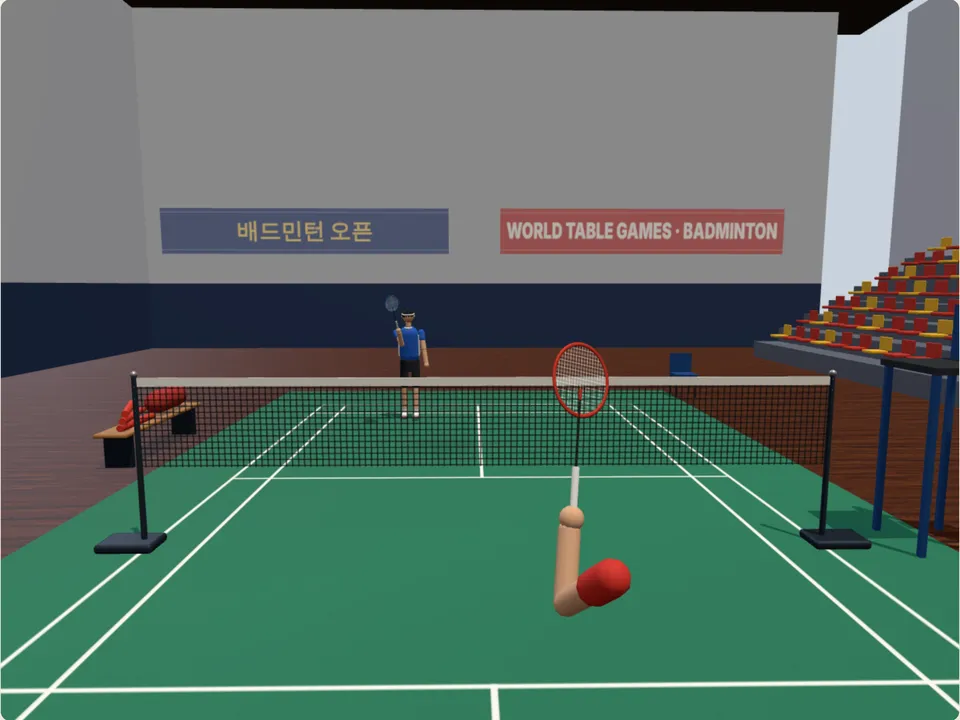
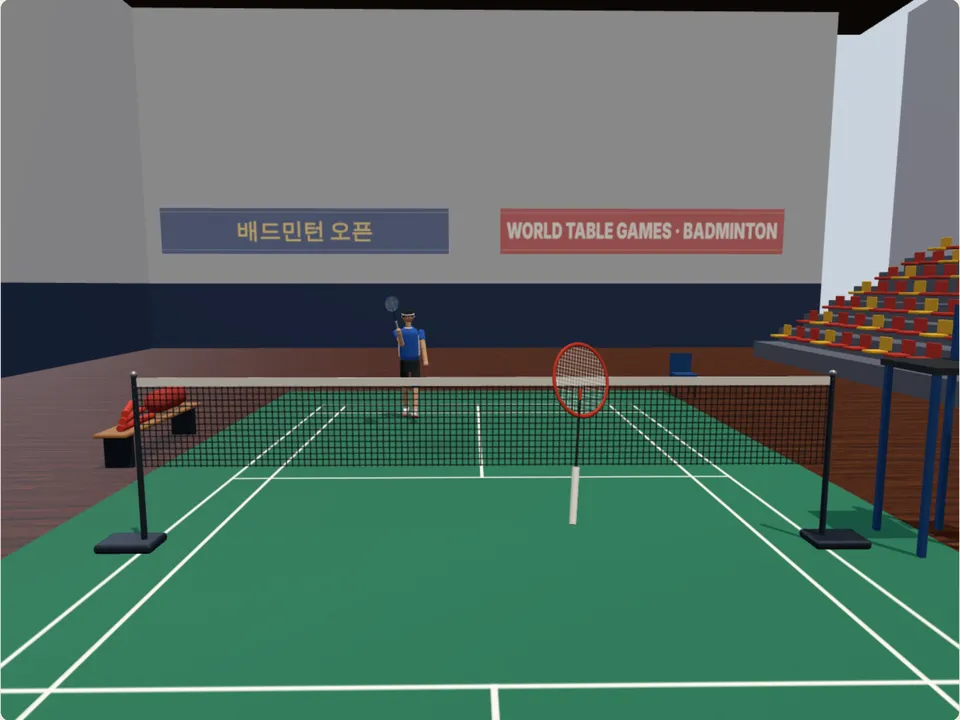
Badminton: only the racket is drawn of my player, and a small broadcast-style scoreboard in the corner
Claude-Session: https://claude.ai/code/session_01Uedx1uYtd54DPXXtQh77nN

Changed region(s): [[0.5625, 0.7028, 0.6562, 0.8556], [0.4062, 0.55, 0.4375, 0.5806]]

diff --git a/src/style.css b/src/style.css
@@ -2968,44 +2968,44 @@ dialog.setup-dialog.entry .entry-rules:hover, dialog.setup-dialog.entry .entry-r
    being played over the middle, each side's points in it (mine red, the computer's blue) with a ball by the server's,
    and beside it every game's score in its column with the games won at the end. No status line over the table. */
 :is(html[data-game="table-tennis"], html[data-game="badminton"]) .game-layout .board-area > .board-hint { display:none !important; }
-:is(html[data-game="table-tennis"], html[data-game="badminton"]) .game-layout.hud .table-layout > aside.game-sidebar { left:50% !important;right:auto !important;top:12px !important;bottom:auto !important;translate:-50% 0;max-width:none !important;gap:0;text-shadow:none; }
-:is(html[data-game="table-tennis"], html[data-game="badminton"]) .game-layout.hud.panel-scoreboard aside.game-sidebar .yut-sides { display:flex !important;flex-direction:row !important;justify-content:center;align-items:flex-start;gap:0 40px !important;padding:22px 26px 10px !important;border-radius:12px;background:linear-gradient(#171a21, #07080b) !important;border:3px solid #333944 !important;box-shadow:0 8px 22px #000a, inset 0 0 18px #000d !important;position:relative; }
-:is(html[data-game="table-tennis"], html[data-game="badminton"]) .game-layout.hud.panel-scoreboard aside.game-sidebar .yut-sides::after { display:block;content:":";position:absolute;left:50%;top:52px;translate:-50% 0;color:#ffd45a;font:800 40px/1 var(--mono, ui-monospace, monospace);text-shadow:0 0 10px #ffb21a; }
-:is(html[data-game="table-tennis"], html[data-game="badminton"]) .game-layout.hud.panel-scoreboard aside.game-sidebar .yut-sides li { display:flex !important;flex-direction:column;align-items:center;gap:4px !important;width:auto;position:static;flex:0 0 150px;min-width:0; }
-:is(html[data-game="table-tennis"], html[data-game="badminton"]) .game-layout.hud.panel-scoreboard aside.game-sidebar .yut-sides li .yut-dot { display:none; }
-:is(html[data-game="table-tennis"], html[data-game="badminton"]) .game-layout.hud.panel-scoreboard aside.game-sidebar .yut-sides li b { color:#ffd45a;font-size:12px;font-weight:700;letter-spacing:.06em;white-space:nowrap; }
-:is(html[data-game="table-tennis"], html[data-game="badminton"]) .game-layout.hud.panel-scoreboard aside.game-sidebar .yut-sides li > span[id^="pg-count-"] { display:flex;flex-direction:row;align-items:center;gap:8px;font:inherit !important;text-shadow:none !important;color:inherit !important; }
-:is(html[data-game="table-tennis"], html[data-game="badminton"]) .game-layout.hud.panel-scoreboard aside.game-sidebar .tt-points { font:800 54px/1 var(--mono, ui-monospace, monospace);min-width:1.2em;text-align:center; }
-:is(html[data-game="table-tennis"], html[data-game="badminton"]) .game-layout.hud.panel-scoreboard aside.game-sidebar #pg-side-0 .tt-points { color:#ff4a3a !important;text-shadow:0 0 14px #ff2a1a, 0 0 2px #fff6; }
-:is(html[data-game="table-tennis"], html[data-game="badminton"]) .game-layout.hud.panel-scoreboard aside.game-sidebar #pg-side-1 .tt-points { color:#4aa8ff !important;text-shadow:0 0 14px #1a7aff, 0 0 2px #fff6; }
-:is(html[data-game="table-tennis"], html[data-game="badminton"]) .game-layout.hud.panel-scoreboard aside.game-sidebar #pg-side-0 .tt-serve { order:-1; }
-:is(html[data-game="table-tennis"], html[data-game="badminton"]) .game-layout.hud.panel-scoreboard aside.game-sidebar .tt-serve { display:block;width:12px;height:12px;border-radius:50%;background:#2a2e36;box-shadow:inset 0 0 3px #000; }
-:is(html[data-game="table-tennis"], html[data-game="badminton"]) .game-layout.hud.panel-scoreboard aside.game-sidebar .tt-serve.on { background:radial-gradient(circle at 35% 35%, #ffd7a0, #ff8a1c 60%, #c45a00);box-shadow:0 0 10px #ff9a2a; }
-:is(html[data-game="table-tennis"], html[data-game="badminton"]) .game-layout.hud.panel-scoreboard aside.game-sidebar .tt-table { position:absolute;left:calc(100% + 10px);top:-3px;bottom:-3px;width:max-content;display:grid !important;align-content:center;gap:3px;padding:6px 14px !important;background:linear-gradient(#171a21, #07080b) !important;border:3px solid #333944 !important;border-radius:12px !important;box-shadow:0 8px 22px #000a, inset 0 0 18px #000d !important; }
-:is(html[data-game="table-tennis"], html[data-game="badminton"]) .game-layout.hud.panel-scoreboard aside.game-sidebar .tt-row { display:flex !important;align-items:center;gap:4px;font:700 13px/1.25 var(--mono, ui-monospace, monospace); }
-:is(html[data-game="table-tennis"], html[data-game="badminton"]) .game-layout.hud.panel-scoreboard aside.game-sidebar .tt-row b { color:#d8d4c8 !important;font:600 12px/1 "Inter", "Noto Sans KR", sans-serif;text-align:left;letter-spacing:0;white-space:nowrap;width:46px;flex:0 0 46px; }
-:is(html[data-game="table-tennis"], html[data-game="badminton"]) .game-layout.hud.panel-scoreboard aside.game-sidebar .tt-cell { flex:0 0 28px;font-style:normal;text-align:center;color:#6e6a60;padding:2px 0;border-radius:4px; }
-:is(html[data-game="table-tennis"], html[data-game="badminton"]) .game-layout.hud.panel-scoreboard aside.game-sidebar .tt-head .tt-cell { color:#8a8576;font-size:11px; }
-:is(html[data-game="table-tennis"], html[data-game="badminton"]) .game-layout.hud.panel-scoreboard aside.game-sidebar .tt-cell.now { background:#1d2733;color:#7fe0ff; }
-:is(html[data-game="table-tennis"], html[data-game="badminton"]) .game-layout.hud.panel-scoreboard aside.game-sidebar .tt-side-0 .tt-cell.won { color:#ff5a46;text-shadow:0 0 8px #ff2a1a; }
-:is(html[data-game="table-tennis"], html[data-game="badminton"]) .game-layout.hud.panel-scoreboard aside.game-sidebar .tt-side-1 .tt-cell.won { color:#5ab4ff;text-shadow:0 0 8px #1a7aff; }
-:is(html[data-game="table-tennis"], html[data-game="badminton"]) .game-layout.hud.panel-scoreboard aside.game-sidebar .tt-row em { flex:0 0 36px;font-style:normal;text-align:center;color:#ffd45a !important;font-size:15px;font-weight:800; }
-:is(html[data-game="table-tennis"], html[data-game="badminton"]) .game-layout.hud.panel-scoreboard aside.game-sidebar .tt-head em { color:#8a8576 !important;font:600 11px/1 "Inter", "Noto Sans KR", sans-serif; }
-:is(html[data-game="table-tennis"], html[data-game="badminton"]) .game-layout.hud.panel-scoreboard aside.game-sidebar .tt-game { position:absolute;inset:6px 0 auto 0;width:auto;text-align:center;translate:none;color:#7fe0ff !important;font:800 11px/1 var(--mono, ui-monospace, monospace);letter-spacing:.14em;text-shadow:0 0 8px #2ab0ff;white-space:nowrap; }
+html[data-game="table-tennis"] .game-layout.hud .table-layout > aside.game-sidebar { left:50% !important;right:auto !important;top:12px !important;bottom:auto !important;translate:-50% 0;max-width:none !important;gap:0;text-shadow:none; }
+html[data-game="table-tennis"] .game-layout.hud.panel-scoreboard aside.game-sidebar .yut-sides { display:flex !important;flex-direction:row !important;justify-content:center;align-items:flex-start;gap:0 40px !important;padding:22px 26px 10px !important;border-radius:12px;background:linear-gradient(#171a21, #07080b) !important;border:3px solid #333944 !important;box-shadow:0 8px 22px #000a, inset 0 0 18px #000d !important;position:relative; }
+html[data-game="table-tennis"] .game-layout.hud.panel-scoreboard aside.game-sidebar .yut-sides::after { display:block;content:":";position:absolute;left:50%;top:52px;translate:-50% 0;color:#ffd45a;font:800 40px/1 var(--mono, ui-monospace, monospace);text-shadow:0 0 10px #ffb21a; }
+html[data-game="table-tennis"] .game-layout.hud.panel-scoreboard aside.game-sidebar .yut-sides li { display:flex !important;flex-direction:column;align-items:center;gap:4px !important;width:auto;position:static;flex:0 0 150px;min-width:0; }
+html[data-game="table-tennis"] .game-layout.hud.panel-scoreboard aside.game-sidebar .yut-sides li .yut-dot { display:none; }
+html[data-game="table-tennis"] .game-layout.hud.panel-scoreboard aside.game-sidebar .yut-sides li b { color:#ffd45a;font-size:12px;font-weight:700;letter-spacing:.06em;white-space:nowrap; }
+html[data-game="table-tennis"] .game-layout.hud.panel-scoreboard aside.game-sidebar .yut-sides li > span[id^="pg-count-"] { display:flex;flex-direction:row;align-items:center;gap:8px;font:inherit !important;text-shadow:none !important;color:inherit !important; }
+html[data-game="table-tennis"] .game-layout.hud.panel-scoreboard aside.game-sidebar .tt-points { font:800 54px/1 var(--mono, ui-monospace, monospace);min-width:1.2em;text-align:center; }
+html[data-game="table-tennis"] .game-layout.hud.panel-scoreboard aside.game-sidebar #pg-side-0 .tt-points { color:#ff4a3a !important;text-shadow:0 0 14px #ff2a1a, 0 0 2px #fff6; }
+html[data-game="table-tennis"] .game-layout.hud.panel-scoreboard aside.game-sidebar #pg-side-1 .tt-points { color:#4aa8ff !important;text-shadow:0 0 14px #1a7aff, 0 0 2px #fff6; }
+html[data-game="table-tennis"] .game-layout.hud.panel-scoreboard aside.game-sidebar #pg-side-0 .tt-serve { order:-1; }
+html[data-game="table-tennis"] .game-layout.hud.panel-scoreboard aside.game-sidebar .tt-serve { display:block;width:12px;height:12px;border-radius:50%;background:#2a2e36;box-shadow:inset 0 0 3px #000; }
+html[data-game="table-tennis"] .game-layout.hud.panel-scoreboard aside.game-sidebar .tt-serve.on { background:radial-gradient(circle at 35% 35%, #ffd7a0, #ff8a1c 60%, #c45a00);box-shadow:0 0 10px #ff9a2a; }
+html[data-game="table-tennis"] .game-layout.hud.panel-scoreboard aside.game-sidebar .tt-table { position:absolute;left:calc(100% + 10px);top:-3px;bottom:-3px;width:max-content;display:grid !important;align-content:center;gap:3px;padding:6px 14px !important;background:linear-gradient(#171a21, #07080b) !important;border:3px solid #333944 !important;border-radius:12px !important;box-shadow:0 8px 22px #000a, inset 0 0 18px #000d !important; }
+html[data-game="table-tennis"] .game-layout.hud.panel-scoreboard aside.game-sidebar .tt-row { display:flex !important;align-items:center;gap:4px;font:700 13px/1.25 var(--mono, ui-monospace, monospace); }
+html[data-game="table-tennis"] .game-layout.hud.panel-scoreboard aside.game-sidebar .tt-row b { color:#d8d4c8 !important;font:600 12px/1 "Inter", "Noto Sans KR", sans-serif;text-align:left;letter-spacing:0;white-space:nowrap;width:46px;flex:0 0 46px; }
+html[data-game="table-tennis"] .game-layout.hud.panel-scoreboard aside.game-sidebar .tt-cell { flex:0 0 28px;font-style:normal;text-align:center;color:#6e6a60;padding:2px 0;border-radius:4px; }
+html[data-game="table-tennis"] .game-layout.hud.panel-scoreboard aside.game-sidebar .tt-head .tt-cell { color:#8a8576;font-size:11px; }
+html[data-game="table-tennis"] .game-layout.hud.panel-scoreboard aside.game-sidebar .tt-cell.now { background:#1d2733;color:#7fe0ff; }
+html[data-game="table-tennis"] .game-layout.hud.panel-scoreboard aside.game-sidebar .tt-side-0 .tt-cell.won { color:#ff5a46;text-shadow:0 0 8px #ff2a1a; }
+html[data-game="table-tennis"] .game-layout.hud.panel-scoreboard aside.game-sidebar .tt-side-1 .tt-cell.won { color:#5ab4ff;text-shadow:0 0 8px #1a7aff; }
+html[data-game="table-tennis"] .game-layout.hud.panel-scoreboard aside.game-sidebar .tt-row em { flex:0 0 36px;font-style:normal;text-align:center;color:#ffd45a !important;font-size:15px;font-weight:800; }
+html[data-game="table-tennis"] .game-layout.hud.panel-scoreboard aside.game-sidebar .tt-head em { color:#8a8576 !important;font:600 11px/1 "Inter", "Noto Sans KR", sans-serif; }
+html[data-game="table-tennis"] .game-layout.hud.panel-scoreboard aside.game-sidebar .tt-game { position:absolute;inset:6px 0 auto 0;width:auto;text-align:center;translate:none;color:#7fe0ff !important;font:800 11px/1 var(--mono, ui-monospace, monospace);letter-spacing:.14em;text-shadow:0 0 8px #2ab0ff;white-space:nowrap; }
 @media (orientation: landscape) and (max-height: 540px) {
-  :is(html[data-game="table-tennis"], html[data-game="badminton"]) .game-layout.hud .table-layout > aside.game-sidebar { top:6px !important; }
-  :is(html[data-game="table-tennis"], html[data-game="badminton"]) .game-layout.hud.panel-scoreboard aside.game-sidebar .yut-sides { gap:0 26px !important;padding:15px 16px 6px !important; }
-  :is(html[data-game="table-tennis"], html[data-game="badminton"]) .game-layout.hud.panel-scoreboard aside.game-sidebar .yut-sides li { flex-basis:112px; }
-  :is(html[data-game="table-tennis"], html[data-game="badminton"]) .game-layout.hud.panel-scoreboard aside.game-sidebar .yut-sides::after { font-size:26px;top:34px; }
-  :is(html[data-game="table-tennis"], html[data-game="badminton"]) .game-layout.hud.panel-scoreboard aside.game-sidebar .tt-points { font-size:32px; }
-  :is(html[data-game="table-tennis"], html[data-game="badminton"]) .game-layout.hud.panel-scoreboard aside.game-sidebar .tt-serve { width:9px;height:9px; }
-  :is(html[data-game="table-tennis"], html[data-game="badminton"]) .game-layout.hud.panel-scoreboard aside.game-sidebar .yut-sides li b { font-size:10px; }
-  :is(html[data-game="table-tennis"], html[data-game="badminton"]) .game-layout.hud.panel-scoreboard aside.game-sidebar .tt-table { padding:3px 8px !important;left:calc(100% + 6px); }
-  :is(html[data-game="table-tennis"], html[data-game="badminton"]) .game-layout.hud.panel-scoreboard aside.game-sidebar .tt-row { font-size:10px;gap:2px; }
-  :is(html[data-game="table-tennis"], html[data-game="badminton"]) .game-layout.hud.panel-scoreboard aside.game-sidebar .tt-cell { flex-basis:19px; }
-  :is(html[data-game="table-tennis"], html[data-game="badminton"]) .game-layout.hud.panel-scoreboard aside.game-sidebar .tt-row b { font-size:9.5px;width:36px;flex-basis:36px; }
-  :is(html[data-game="table-tennis"], html[data-game="badminton"]) .game-layout.hud.panel-scoreboard aside.game-sidebar .tt-row em { font-size:11px;flex-basis:26px; }
-  :is(html[data-game="table-tennis"], html[data-game="badminton"]) .game-layout.hud.panel-scoreboard aside.game-sidebar .tt-game { top:4px;font-size:9px; }
+  html[data-game="table-tennis"] .game-layout.hud .table-layout > aside.game-sidebar { top:6px !important; }
+  html[data-game="table-tennis"] .game-layout.hud.panel-scoreboard aside.game-sidebar .yut-sides { gap:0 26px !important;padding:15px 16px 6px !important; }
+  html[data-game="table-tennis"] .game-layout.hud.panel-scoreboard aside.game-sidebar .yut-sides li { flex-basis:112px; }
+  html[data-game="table-tennis"] .game-layout.hud.panel-scoreboard aside.game-sidebar .yut-sides::after { font-size:26px;top:34px; }
+  html[data-game="table-tennis"] .game-layout.hud.panel-scoreboard aside.game-sidebar .tt-points { font-size:32px; }
+  html[data-game="table-tennis"] .game-layout.hud.panel-scoreboard aside.game-sidebar .tt-serve { width:9px;height:9px; }
+  html[data-game="table-tennis"] .game-layout.hud.panel-scoreboard aside.game-sidebar .yut-sides li b { font-size:10px; }
+  html[data-game="table-tennis"] .game-layout.hud.panel-scoreboard aside.game-sidebar .tt-table { padding:3px 8px !important;left:calc(100% + 6px); }
+  html[data-game="table-tennis"] .game-layout.hud.panel-scoreboard aside.game-sidebar .tt-row { font-size:10px;gap:2px; }
+  html[data-game="table-tennis"] .game-layout.hud.panel-scoreboard aside.game-sidebar .tt-cell { flex-basis:19px; }
+  html[data-game="table-tennis"] .game-layout.hud.panel-scoreboard aside.game-sidebar .tt-row b { font-size:9.5px;width:36px;flex-basis:36px; }
+  html[data-game="table-tennis"] .game-layout.hud.panel-scoreboard aside.game-sidebar .tt-row em { font-size:11px;flex-basis:26px; }
+  html[data-game="table-tennis"] .game-layout.hud.panel-scoreboard aside.game-sidebar .tt-game { top:4px;font-size:9px; }
 }
 /* The word over the table while it is my serve (nothing moves on it then). */
 .tt-tip { position:absolute;left:50%;bottom:42%;translate:-50% 0;z-index:3;padding:8px 18px;border-radius:999px;background:rgba(10,18,36,.62);color:#fff;font-weight:800;font-size:clamp(13px, 2vmin, 17px);white-space:nowrap;pointer-events:none;box-shadow:0 4px 14px rgba(0,0,0,.3); }
@@ -3014,6 +3014,37 @@ html[data-capture] .tt-tip { display:none !important; }
 /* 배드민턴: the jump button at the lower left of the court (the user asked), pressed before a swipe for a smash. */
 .bd-jump { position:absolute;left:max(16px, env(safe-area-inset-left));bottom:max(18px, env(safe-area-inset-bottom));z-index:4;width:clamp(64px, 11vmin, 92px);height:clamp(64px, 11vmin, 92px);border-radius:50%;display:grid;place-items:center;align-content:center;gap:0;padding:0;border:2px solid rgba(255,255,255,.75);background:radial-gradient(circle at 40% 32%, rgba(255,140,90,.95), rgba(200,52,38,.92));color:#fff;font:800 clamp(12px, 2vmin, 15px)/1 "Inter", "Noto Sans KR", sans-serif;box-shadow:0 6px 18px rgba(0,0,0,.35), inset 0 -4px 10px rgba(0,0,0,.25);touch-action:none;user-select:none;-webkit-user-select:none;cursor:pointer;transition:transform .12s, filter .12s; }
 .tt-tip.bd-tip { bottom:14%; }
+/*
+ * 배드민턴's scoreboard: small in the top-left corner like a broadcast's (the user asked; table tennis keeps its big
+ * board): a row a player, its colour bar, its name, the games it has won and its points, a dot by the server's, and a
+ * thin GAME tab over them.
+ */
+html[data-game="badminton"] .game-layout.hud .table-layout > aside.game-sidebar { left:64px !important;right:auto !important;top:14px !important;bottom:auto !important;translate:none;max-width:none !important;width:auto !important;gap:0;text-shadow:none;pointer-events:none; }
+html[data-game="badminton"] .game-layout.hud.panel-scoreboard aside.game-sidebar .yut-sides { display:grid !important;grid-template-columns:auto;gap:0 !important;padding:0 !important;margin:16px 0 0 !important;border-radius:6px;overflow:visible;background:rgba(10,14,24,.82) !important;border:1px solid rgba(255,255,255,.14) !important;box-shadow:0 4px 14px rgba(0,0,0,.35) !important;position:relative;backdrop-filter:blur(3px); }
+html[data-game="badminton"] .game-layout.hud.panel-scoreboard aside.game-sidebar .yut-sides li { display:flex !important;flex-direction:row;align-items:stretch;gap:0 !important;width:auto;position:static;min-width:0;height:26px;margin:0 !important;padding:0 !important; }
+html[data-game="badminton"] .game-layout.hud.panel-scoreboard aside.game-sidebar .yut-sides li + li { border-top:1px solid rgba(255,255,255,.1); }
+html[data-game="badminton"] .game-layout.hud.panel-scoreboard aside.game-sidebar .yut-sides li .yut-dot { display:block !important;width:5px !important;height:auto !important;border-radius:0 !important;margin:0 !important;flex:0 0 5px;box-shadow:none !important; }
+html[data-game="badminton"] .game-layout.hud.panel-scoreboard aside.game-sidebar .yut-sides li:first-child .yut-dot { border-top-left-radius:6px !important; }
+html[data-game="badminton"] .game-layout.hud.panel-scoreboard aside.game-sidebar .yut-sides li:last-child .yut-dot { border-bottom-left-radius:6px !important; }
+html[data-game="badminton"] .game-layout.hud.panel-scoreboard aside.game-sidebar .yut-sides li > b { display:none !important; }
+html[data-game="badminton"] .game-layout.hud.panel-scoreboard aside.game-sidebar .yut-sides li > span[id^="pg-count-"] { display:flex !important;flex-direction:row;align-items:center;gap:0;font:inherit !important;text-shadow:none !important;color:#fff !important;margin:0 !important; }
+html[data-game="badminton"] .bd-name { width:62px;padding:0 6px 0 8px;color:#f2f4f8;font:700 12px/26px "Inter", "Noto Sans KR", sans-serif;white-space:nowrap;overflow:hidden;text-overflow:ellipsis; }
+html[data-game="badminton"] .bd-serve { width:12px;display:grid;place-items:center; }
+html[data-game="badminton"] .bd-serve::before { content:"";width:6px;height:6px;border-radius:50%;background:transparent; }
+html[data-game="badminton"] .bd-serve.on::before { background:#ffd45a;box-shadow:0 0 6px #ffb21a; }
+html[data-game="badminton"] .bd-games { min-width:22px;padding:0 4px;text-align:center;color:#9fb3c8;font:700 12px/26px var(--mono, ui-monospace, monospace);border-left:1px solid rgba(255,255,255,.1); }
+html[data-game="badminton"] .bd-points { min-width:30px;padding:0 6px;text-align:center;color:#111 !important;background:#ffd45a;font:800 15px/26px var(--mono, ui-monospace, monospace); }
+html[data-game="badminton"] .yut-sides li:first-child .bd-points { border-top-right-radius:6px; }
+html[data-game="badminton"] .yut-sides li:last-child .bd-points { border-bottom-right-radius:6px; }
+html[data-game="badminton"] .game-layout.hud.panel-scoreboard aside.game-sidebar .yut-sides li:first-child { position:relative !important; }
+html[data-game="badminton"] .game-layout.hud.panel-scoreboard aside.game-sidebar .bd-head { position:absolute !important;left:0 !important;top:auto !important;bottom:100% !important;translate:none !important;display:block !important;padding:2px 8px !important;border-radius:4px 4px 0 0;background:#c8302a !important;color:#fff !important;font:800 9.5px/1.3 var(--mono, ui-monospace, monospace) !important;letter-spacing:.12em;white-space:nowrap;text-shadow:none !important; }
+@media (orientation: landscape) and (max-height: 540px) {
+  html[data-game="badminton"] .game-layout.hud .table-layout > aside.game-sidebar { left:52px !important;top:8px !important; }
+  html[data-game="badminton"] .game-layout.hud.panel-scoreboard aside.game-sidebar .yut-sides li { height:22px; }
+  html[data-game="badminton"] .bd-name { width:52px;font-size:11px;line-height:22px; }
+  html[data-game="badminton"] .bd-games, html[data-game="badminton"] .bd-points { line-height:22px; }
+  html[data-game="badminton"] .bd-points { font-size:13px;min-width:26px; }
+}
 .bd-jump svg { width:46%;height:46%;margin-bottom:-2px; }
 .bd-jump.on { transform:translateY(-6px) scale(1.06);filter:brightness(1.25);box-shadow:0 10px 26px rgba(255,120,60,.55), inset 0 -4px 10px rgba(0,0,0,.2); }
 .bd-jump.off { filter:saturate(.35) brightness(.85); }

diff --git a/src/games/badminton/config.ts b/src/games/badminton/config.ts
@@ -4,18 +4,6 @@ import { FULL_GAME, SHORT_GAME, badminton, capOf, deuce, gameNumber, serverOf, t
 import { BADMINTON_COLORS, BadmintonView } from "./view";
 import { gameResult } from "./result";
 
-/** The game scores: a column for each game (finished ones with their score, the one being played with its points so far). */
-function gameTable(state: State) {
-  const now = state.winner === null ? state.done.length : -1,
-    cell = (k: number, p: 0 | 1) => {
-      const score = k < state.done.length ? state.done[k] : k === now ? state.score : null;
-      if (!score) return `<i class="tt-cell">·</i>`;
-      const won = k < state.done.length && score[p] > score[1 - p];
-      return `<i class="tt-cell${k === now ? " now" : ""}${won ? " won" : ""}">${score[p]}</i>`;
-    },
-    row = (p: 0 | 1, name: string) => `<span class="tt-row tt-side-${p}"><b>${name}</b>${Array.from({ length: state.best }, (_, k) => cell(k, p)).join("")}<em>${state.games[p]}</em></span>`;
-  return `<span class="tt-table" aria-hidden="true" style="--games:${state.best}"><span class="tt-row tt-head"><b></b>${Array.from({ length: state.best }, (_, k) => `<i class="tt-cell${k === now ? " now" : ""}">${k + 1}</i>`).join("")}<em>게임</em></span>${row(0, "나")}${row(1, "컴퓨터")}</span>`;
-}
 export const badmintonConfig: PointConfig<State> = {
   game: badminton,
   panel: "scoreboard",
@@ -25,10 +13,11 @@ export const badmintonConfig: PointConfig<State> = {
   computerOnly: true,
   cheer: (before, state) => (state.ply <= before.ply || state.winner !== null ? null : deuce(state) && !deuce(before) ? "듀스" : null),
   setResult: (before, state) => gameResult(before, state, 0),
+  // The broadcast board in the corner: each player's serve dot, name, games won and points, a GAME tab over the first.
   tallyHtml: (state) =>
     [0, 1].map(
       (p) =>
-        `${p === 0 ? `<span class="tt-game">GAME ${gameNumber(state)}</span>${state.best > 1 ? gameTable(state) : ""}` : ""}<span class="tt-points">${state.score[p]}</span><i class="tt-serve${state.winner === null && serverOf(state) === p ? " on" : ""}" aria-hidden="true"></i>`,
+        `${p === 0 ? `<span class="bd-head">GAME ${gameNumber(state)}${state.done.length ? ` · ${state.done.map(([a, b]) => `${a}-${b}`).join(" ")}` : ""}</span>` : ""}<i class="bd-serve${state.winner === null && serverOf(state) === p ? " on" : ""}" aria-hidden="true"></i><span class="bd-name">${p === 0 ? "나" : "컴퓨터"}</span><em class="bd-games">${state.games[p]}</em><strong class="bd-points tt-points">${state.score[p]}</strong>`,
     ) as [string, string],
   view: (host, quality, _variant, _mode, level) => new BadmintonView(host, quality, level),
   colors: BADMINTON_COLORS,
@@ -66,7 +55,7 @@ export const badmintonConfig: PointConfig<State> = {
     part(
       "치기",
       table(
-        ["시점과 이동", "내 선수의 머리 바로 뒤에서 보는 세미 1인칭입니다. 내 몸은 보이지 않고 라켓을 든 팔만 보입니다. 선수는 셔틀콕이 오는 곳으로 <b>저절로 달려가고</b>, 시점도 함께 움직입니다. 셔틀콕이 높이 뜨면 시점이 따라 올라갑니다."],
+        ["시점과 이동", "내 선수의 머리 바로 뒤에서 보는 세미 1인칭입니다. 내 몸과 팔은 보이지 않고 라켓만 보입니다. 선수는 셔틀콕이 오는 곳으로 <b>저절로 달려가고</b>, 시점도 함께 움직입니다. 셔틀콕이 높이 뜨면 시점이 따라 올라갑니다."],
         ["밀기", "셔틀콕이 다가오면 화면 어디든 손가락(마우스는 누른 채)으로 <b>밀었다가 놓으면</b> 라켓을 휘두릅니다."],
         ["치는 때", "날아오는 셔틀콕에는 주황색 빛이 둘려 있고, 라켓이 닿는 거리에 들어오면 <b>연두색으로 밝게</b> 빛납니다. 그때 밀면 맞습니다. 빛나기 조금 전에 밀어도 휘두르는 동안 셔틀콕이 들어오면 맞습니다."],
         ["세기와 거리", "<b>빠르게 밀수록 셔틀콕이 세고 멀리</b> 나갑니다. 천천히 밀면 네트 바로 너머에 떨어지는 드롭, 빠르게 밀면 상대 코트 끝까지 가는 클리어가 됩니다. 내가 코트 어디에 있든 같은 빠르기면 같은 깊이로 갑니다. 셔틀콕은 늘 네트를 넘어가고, <b>아주 세게</b> 밀었을 때만 뒤로 나가 아웃이 됩니다."],

diff --git a/src/games/badminton/view.ts b/src/games/badminton/view.ts
@@ -117,8 +117,9 @@ export class BadmintonView extends TableView<State> {
     hall(this.scene, keep_);
     this.figures = [figure(keep_, "#d8322a", "#2a1d14", "#e23b2a"), figure(keep_, "#2363d0", "#121418", "#1f8adf")];
     for (const f of this.figures) this.scene.add(f.root);
-    // Semi first person: of my own player only the racket arm is drawn (the eye is just behind its head).
-    const arm = this.figures[0].arm;
+    // Semi first person: of my own player only the racket is drawn (the user asked: no arm), still moved by the
+    // unseen arm's swing; the eye is just behind its head.
+    const arm = this.figures[0].racket;
     this.figures[0].root.traverse((part) => {
       if (!(part instanceof T.Mesh)) return;
       let inArm = false;
@@ -361,7 +362,9 @@ export class BadmintonView extends TableView<State> {
       const f = this.figures[side],
         since = w.time - p.struck,
         swingAt = p.swing ? w.time - p.swing.at : -1,
-        serving = w.phase === "ready" && w.server === side;
+        // The computer waits to serve with its racket low; mine stays held up in front of me until I swing (low, it
+        // would look like a racket lying on the floor from my eye).
+        serving = w.phase === "ready" && w.server === side && side === 1;
       f.root.position.set(p.x, p.y, p.z);
       f.body.rotation.y = side === 0 ? Math.PI : 0;
       // A stroke: the swing's wind-up while it looks for the shuttle, then its follow-through once struck.

diff --git a/src/core/updates.ts b/src/core/updates.ts
@@ -13,7 +13,7 @@ export const UPDATES: UpdateDay[] = [
   {
     date: "2026-11-24",
     items: [
-      at("배드민턴: 세미 1인칭 시점, 높이 뜬 셔틀콕이 오면 점프 버튼이 깜박여 스매싱 안내"),
+      at("배드민턴: 세미 1인칭 시점(라켓만 보임), 중계 화면 같은 작은 점수판, 높이 뜬 셔틀콕이 오면 점프 버튼이 깜박여 스매싱 안내"),
       at("새 게임: 낚시 — 물가 부두에서 찌를 던지고, 찌가 잠기면 채고, 줄 장력을 보며 감아 올리기(90초, 레벨 3단계)"),
       at("새 게임: 배드민턴 — 밀어서 치기(빠를수록 세고 멀리), 점프 버튼을 누르고 밀면 스매싱, 11점·21점·3게임"),
       at("새 게임: 축구 — 하스볼 같은 평면 축구(최대 3 대 3)와 옆에서 보는 중력 축구(최대 2 대 2), 레드·관전·블루 대기실, 와이파이 여럿이"),

diff --git a/AGENTS.md b/AGENTS.md
@@ -234,8 +234,8 @@
 - Table tennis, asked by the user: the step-back change (fixed blade height, the eye stepping back for high balls) was reverted, so the paddles meet the ball's height as before. My blade's judgement is generous (`REACH` 0.17, `REACH_Y` 0.22; the computer keeps `THEIR_REACH` 0.118 and `THEIR_REACH_Y` 0.15), and my stroke comes from the swing alone (`swingShot`): a swing to one side aims it that way with sidespin that curves it, a quick swing toward the net is a smash; where the ball meets the blade no longer aims it (only a touch of depth from its height).
 - Glide cube's pushes given ahead are played as slides, not jumps: `TableView.step` keeps the tween list a tween replaced while running (a queued push started its slide from inside the tween that settled the table, and the old list overwrote it, so the cube jumped).
 - Table tennis, asked by the user after that: the view steps aside for a wide ball (`world.stance` in `pingpong/sim.ts`, aimed by `leanFor` at where the computer's ball will reach my end, `LEAN` 0.78 up to `LEAN_MAX` 0.75, a critically damped spring at `STANCE_RATE`, back to the middle between points, half as far under reduced motion; `rallyCamera(camera, aspect, side)` moves the eye by the stance and the point looked at by `LOOK_SHARE`; my reach widens toward that side; the view aims the last pointer again through the moving camera; `swingShot` subtracts the step's own speed; the canvas carries `data-eye`). My sidespin is much stronger (`SIDE_SPIN` 84, `SIDE_MAX` 520) and my strokes are aimed round their curve (`aimed(..., bend)`), so a sideways swing bends visibly and still lands up to about 5 m/s across; serves and the computer keep the old spin. A smash is judged by the racket's whole speed at contact (`SMASH` 5.5 m/s, full at `SMASH_FULL` 9.5, wild past `WILD` 14), the speed being its true displacement over the last `SWING_SLICES` slices; a swing mostly back toward me still cuts; a smash is called 스매싱! over the table.
-- Badminton (`src/games/badminton/`, id `badminton`, 스포츠게임; the user asked): singles against the computer in a sports hall, seen from behind my player (`courtCamera` in `layout.ts`, raised on a wide screen so the far court clears the scoreboard). `sim.ts` is free of Three.js: the shuttle flies under gravity and quadratic drag (`TERMINAL` 6.8 m/s), the net catches it below `NET_H`, both players run to the shuttle by themselves (`meeting`, looked at 20 times a second), my stroke is a swipe (the user asked): its speed over its last 100 ms in canvas heights a second becomes power (`powerOf`), power the launch speed (`speedOf`, 9 to 58 m/s, geometric; beyond 1 up to `MOST` it goes long), its lean the aim (`yawOf`). A smash only from a jump (the user asked): the jump button at the lower left (`.bd-jump`, Space or J), then a swipe while airborne; that swing waits for the shuttle until the jump lands, and is aimed down past the net by power (`smashSpeed`, `smashDepth`). The swing otherwise looks for the shuttle for `SWING` 0.24 s; the ring at my feet lights while it is in reach. Rally scoring (`rules.ts`): the rally's winner serves, from the right court on an even score; games to 11 or 21, two clear, capped at 15 or 30; variants "1", "21", "3". The computer (`LEVELS`) reacts, misjudges now and then, lets clear outs go (`judge`), and smashes high shuttles by level. The scoreboard reuses table tennis's styles (`:is(...)` selectors). No Wi-Fi yet. Tests: `tests/badminton.test.ts`, `tests/e2e/badminton.spec.ts` (keys and the jump button; a swipe's speed is unreliable in a software-drawn page, where its events come far apart).
-- Badminton, asked by the user after that: semi first person (`courtCamera(camera, aspect, me, lift, shake)`: the eye `BEHIND` 1.55 m behind and `ABOVE` 2.25 m over my player's feet, a little left, eased after it as it runs and jumps; it looks up after a shuttle coming high over me, `liftFor`; my smash shakes it). Of my own figure only the racket arm is drawn (`Figure.arm`); both players are right-handed now (`arms[1]` is the right arm, the racket continues along the forearm). Movement stays automatic; a shuttle coming high over me is met where a jump reaches it (`smashable`, which also pulses the jump button, `.bd-jump.hint`, and shows '높이 떴습니다! 점프하고 밀면 스매싱'); `AIR_TOP` 3.0. Outs only when struck far too hard or far to the side (the user asked): a stroke is aimed at a landing point (`aimAt`): its depth by the swipe's power alone, wherever it is struck from (`depthOf`: a drop at power 0, near the back line at `DEEP` 0.85, only a little deeper up to `SAFE` 1.3, long beyond, up to `MOST` 1.7), across by its lean (`acrossOf`: only the fullest lean goes out wide), raised until it clears the net; serves the same way into the service court. The flying shuttle wears an orange glow that turns lime in reach (the ring at my feet is gone).
+- Badminton (`src/games/badminton/`, id `badminton`, 스포츠게임; the user asked): singles against the computer in a sports hall, seen from behind my player (`courtCamera` in `layout.ts`, raised on a wide screen so the far court clears the scoreboard). `sim.ts` is free of Three.js: the shuttle flies under gravity and quadratic drag (`TERMINAL` 6.8 m/s), the net catches it below `NET_H`, both players run to the shuttle by themselves (`meeting`, looked at 20 times a second), my stroke is a swipe (the user asked): its speed over its last 100 ms in canvas heights a second becomes power (`powerOf`), power the launch speed (`speedOf`, 9 to 58 m/s, geometric; beyond 1 up to `MOST` it goes long), its lean the aim (`yawOf`). A smash only from a jump (the user asked): the jump button at the lower left (`.bd-jump`, Space or J), then a swipe while airborne; that swing waits for the shuttle until the jump lands, and is aimed down past the net by power (`smashSpeed`, `smashDepth`). The swing otherwise looks for the shuttle for `SWING` 0.24 s; the ring at my feet lights while it is in reach. Rally scoring (`rules.ts`): the rally's winner serves, from the right court on an even score; games to 11 or 21, two clear, capped at 15 or 30; variants "1", "21", "3". The computer (`LEVELS`) reacts, misjudges now and then, lets clear outs go (`judge`), and smashes high shuttles by level. The scoreboard is a small broadcast-style board in the top-left corner (the user asked: table tennis's big board was too large): a row a player with its colour bar (`.yut-dot`), serve dot, name, games and points (`.bd-*` in `tallyHtml`, styled under `html[data-game="badminton"]`; the points keep the class `tt-points` for the browser test), a red GAME tab over it with the finished games' scores. No Wi-Fi yet. Tests: `tests/badminton.test.ts`, `tests/e2e/badminton.spec.ts` (keys and the jump button; a swipe's speed is unreliable in a software-drawn page, where its events come far apart).
+- Badminton, asked by the user after that: semi first person (`courtCamera(camera, aspect, me, lift, shake)`: the eye `BEHIND` 1.55 m behind and `ABOVE` 2.25 m over my player's feet, a little left, eased after it as it runs and jumps; it looks up after a shuttle coming high over me, `liftFor`; my smash shakes it). Of my own figure only the racket is drawn (`Figure.racket`; the user asked for no arm, so the unseen arm still swings it); both players are right-handed now (`arms[1]` is the right arm, the racket continues along the forearm). Movement stays automatic; a shuttle coming high over me is met where a jump reaches it (`smashable`, which also pulses the jump button, `.bd-jump.hint`, and shows '높이 떴습니다! 점프하고 밀면 스매싱'); `AIR_TOP` 3.0. Outs only when struck far too hard or far to the side (the user asked): a stroke is aimed at a landing point (`aimAt`): its depth by the swipe's power alone, wherever it is struck from (`depthOf`: a drop at power 0, near the back line at `DEEP` 0.85, only a little deeper up to `SAFE` 1.3, long beyond, up to `MOST` 1.7), across by its lean (`acrossOf`: only the fullest lean goes out wide), raised until it clears the net; serves the same way into the service court. The flying shuttle wears an orange glow that turns lime in reach (the ring at my feet is gone).
 - Square runner (네모 러너, a one-button wall-running game after Gamevil's 놈3) was made and then removed at the user's request (its code, tests, thumbnail, catalog entry, sounds and music entry are gone): do not bring it back unasked.
 - Table tennis, asked by the user (high balls were hard to hit and the contact point unclear): a contact marker shows where my blade will meet the coming ball (`contact(world)` in `pingpong/sim.ts`, the same reading that raises the blade; a lime glowing ring with dots along the path from the ball, view-only, off while capturing or paused; on my toss it marks the ball's column). My blade stays under the finger at any height: the view passes the eye (`World.sight`) and the sim puts the blade on the line of sight through the pointer at its height (`alongSight`, `handFor` in `layout.ts`); swing speed is measured at one set height, so rising or sinking along that line is no swing; with no pointer (keyboard, lifted finger) the blade goes where the hand is. My blade reaches up to `REACH_TOP` 1.2 m (the computer keeps `THEIR_TOP` 0.62), and the eye rises, steps back and looks higher for a high ball (`liftFor`, a damped spring; `rallyCamera(..., lift)`, `data-lift`). A stroke is judged along the swing (`sweptFrom`: the nearest the blade came over the last slices, and a sweep just after the ball passed the face, up to `LATE_DEPTH`), so a fast sideways swing that passes through the ball strikes it. The canvas carries `data-blade` and `data-contact`.
 - Table tennis, asked by the user after that: no stroke loops high (`aimed` speeds a stroke up by tenths until its flight stays under `FLIGHT_TOP` 0.42 m or a little over where it was struck from; `Shot.loop` lifts that only for the tests of the high reach), so a ball sits up about 0.25 m after its bounce at every level. The contact marker is shown only at 쉬움. The hardest computer smashes (`SMASH_HIGH`, `THEIR_SMASH`: most balls over 0.3 m and now and then a lower one, kept only if it lands), called 스매싱! in its blue. A second let in a row on one point loses the server the point (`World.lets`, reset by every point; `LETS`, 렛 두 번). The match is either one game to 11 (variant `1`, the default) or the best of three games to 7 (variant `3`, `SHORT`; deuce from 6 all); there is no five-game match any more (`State.points`).

diff --git a/README.md b/README.md
@@ -844,7 +844,7 @@ npm run build:html
 - **슬라이딩 퍼즐** (`src/games/slide/`, id `sliding-puzzle`): 3×3·4×4·5×5 숫자 판과 그림 판 두 가지(달밤의 한옥 마을, 봄날의 정자)를 빈칸 쪽으로 밀어 맞춥니다. 힌트를 따라가면 언제나 풀립니다.
 - **다트** (`src/games/darts/`, id `darts`): 펍 벽의 다트판에 위로 밀어 던집니다. 501(더블 아웃)과 카운트업 두 방식이 있고, 점수는 옆 칠판에 적힙니다.
 - **탁구** (`src/games/pingpong/`, id `table-tennis`): 내 쪽 끝에서 보는 1인칭 탁구입니다. 라켓이 손을 그대로 따라오고, 휘두르는 방향으로 탑스핀·백스핀·옆 회전이 걸립니다. 11점 단판 승부 또는 7점 3게임(2게임 선승)으로 겨룹니다.
-- **배드민턴** (`src/games/badminton/`, id `badminton`): 실내 체육관에서 내 선수의 머리 바로 뒤에서 보는 세미 1인칭 단식 배드민턴입니다(내 몸은 보이지 않고 라켓 든 팔만 보입니다). 선수는 셔틀콕이 오는 곳으로 저절로 달려가고 시점도 함께 움직이며, 화면을 밀었다 놓으면 라켓을 휘두릅니다. 빠르게 밀수록 셔틀콕이 세고 멀리 나가고, 비스듬히 밀면 그쪽으로 갑니다. 어디서 치든 같은 빠르기면 같은 깊이로 가고 늘 네트를 넘어가며, 아주 세게 밀거나 거의 옆으로 밀 때만 아웃입니다. 셔틀콕이 높이 뜨면 점프 버튼이 깜박이고, 왼쪽 아래 점프 버튼을 누른 뒤 공중에서 밀면 스매싱입니다. 날아오는 셔틀콕은 주황색으로, 칠 수 있을 때는 연두색으로 빛납니다. 셔틀콕은 무거운 공기 저항으로 날고, 네트·아웃·서브 실수(대각선 서비스 코트, 쇼트 서비스 라인)를 판정합니다. 랠리 포인트로 11점 단판, 21점 단판, 21점 3게임 가운데 고릅니다. 쉬움에서는 셔틀콕이 떨어질 자리가 노란 고리로 보입니다. 키보드는 ↑ ↓ ← →로 치고 스페이스로 뜁니다.
+- **배드민턴** (`src/games/badminton/`, id `badminton`): 실내 체육관에서 내 선수의 머리 바로 뒤에서 보는 세미 1인칭 단식 배드민턴입니다(내 몸과 팔은 보이지 않고 라켓만 보입니다). 선수는 셔틀콕이 오는 곳으로 저절로 달려가고 시점도 함께 움직이며, 화면을 밀었다 놓으면 라켓을 휘두릅니다. 빠르게 밀수록 셔틀콕이 세고 멀리 나가고, 비스듬히 밀면 그쪽으로 갑니다. 어디서 치든 같은 빠르기면 같은 깊이로 가고 늘 네트를 넘어가며, 아주 세게 밀거나 거의 옆으로 밀 때만 아웃입니다. 셔틀콕이 높이 뜨면 점프 버튼이 깜박이고, 왼쪽 아래 점프 버튼을 누른 뒤 공중에서 밀면 스매싱입니다. 날아오는 셔틀콕은 주황색으로, 칠 수 있을 때는 연두색으로 빛납니다. 셔틀콕은 무거운 공기 저항으로 날고, 네트·아웃·서브 실수(대각선 서비스 코트, 쇼트 서비스 라인)를 판정합니다. 랠리 포인트로 11점 단판, 21점 단판, 21점 3게임 가운데 고릅니다. 점수판은 중계 화면처럼 왼쪽 위에 작게 나옵니다. 쉬움에서는 셔틀콕이 떨어질 자리가 노란 고리로 보입니다. 키보드는 ↑ ↓ ← →로 치고 스페이스로 뜁니다.
 - **볼링** (`src/games/bowling/`, id `bowling`): 볼링장에서 공을 옆으로 끌어 자리를 잡고 위로 밀어 굴립니다. 회전(왼쪽·오른쪽 훅)을 고를 수 있고, 핀이 실제처럼 쓰러지며 10프레임 점수를 냅니다. 혼자 치거나 둘이 번갈아 칩니다.
 
 ## 다트 조준·볼링 핀·오락실 소리와 음악 (사용자 요청)

diff --git a/ROADMAP.md b/ROADMAP.md
@@ -432,3 +432,4 @@
 - [x] 배드민턴: 체육관 단식, 밀기 속도로 세기·거리, 점프 버튼 뒤 밀기로 스매싱, 11점·21점·3게임
 - [x] 낚시(아케이드게임): 잔교에서 보는 호수, 찌 던지기·입질·챔질·장력 줄다리기, 물고기 다섯 종류와 쓰레기, 레벨 셋, 90초
 - [x] 배드민턴: 세미 1인칭 시점(라켓 팔만 보임), 높이 뜬 셔틀콕에 점프 안내, 아주 세거나 옆으로만 아웃
+- [x] 배드민턴: 팔 없이 라켓만 보이기, 중계 화면처럼 왼쪽 위의 작은 점수판
